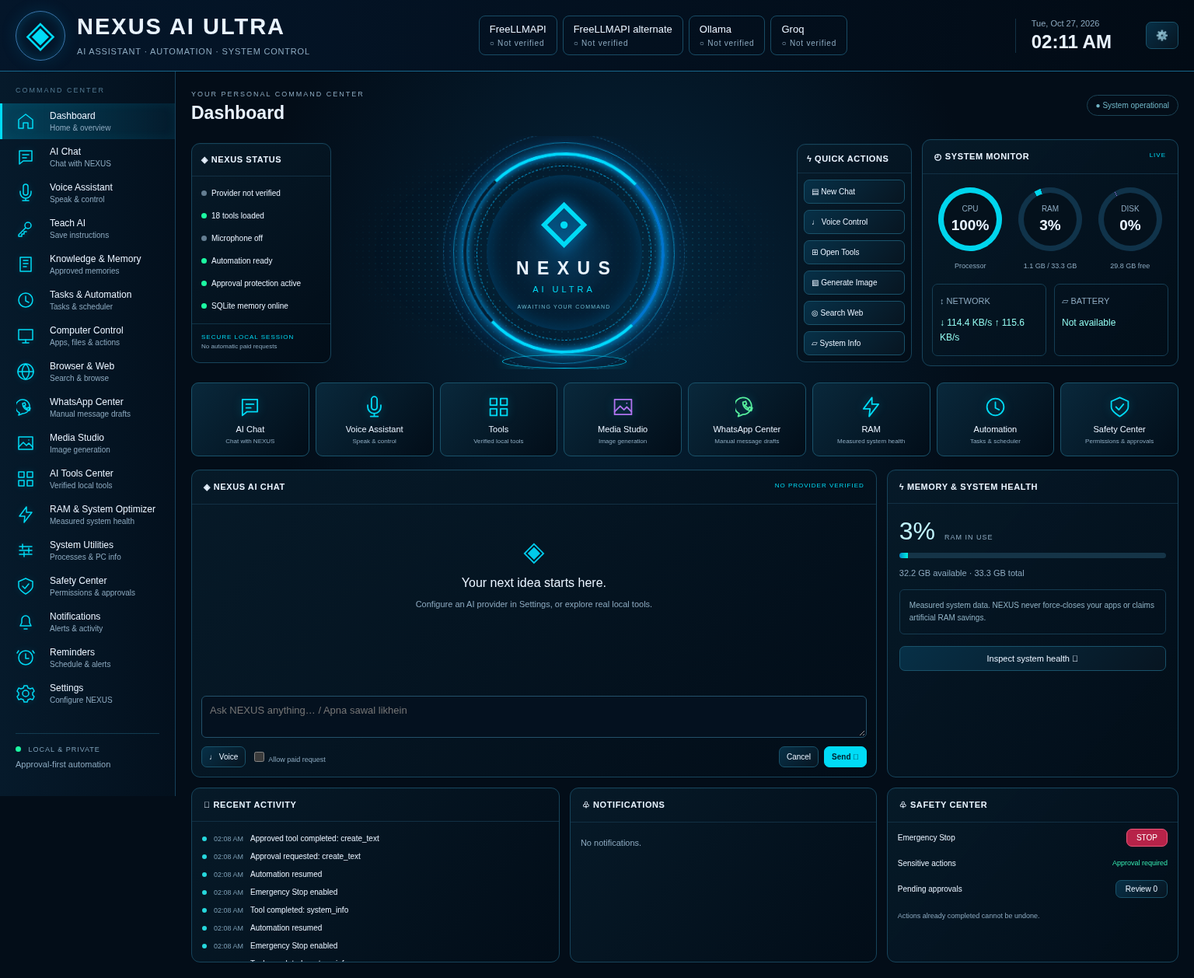
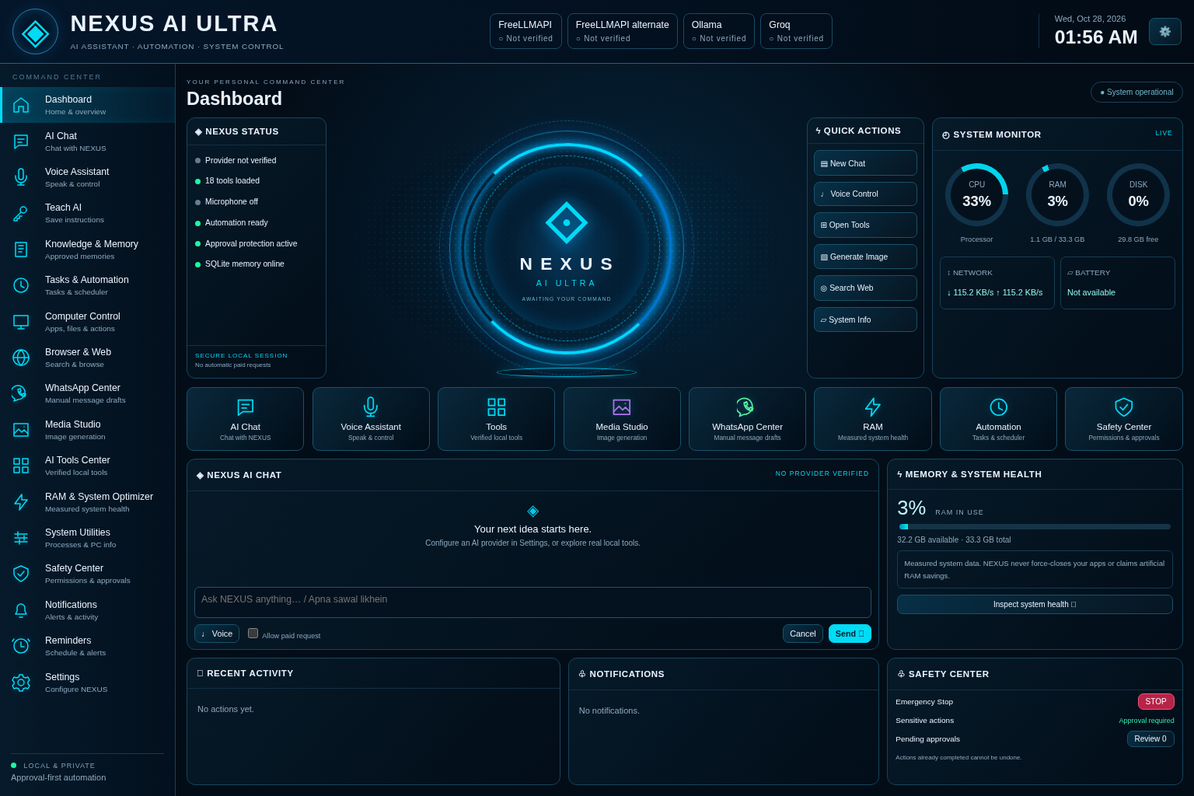
Auto-fit NEXUS dashboard to laptop viewports and keep Settings scrollable

diff --git a/NEXUS_AI_ULTRA/static/style.css b/NEXUS_AI_ULTRA/static/style.css
@@ -1,2 +1,51 @@
 :root{color-scheme:dark;--bg:#030d18;--panel:#061421;--border:#17445b;--cyan:#00dbf6;--text:#e9f3ff;--muted:#8ca9bf;--purple:#b073ef}*{box-sizing:border-box}body{margin:0;background:radial-gradient(ellipse at 52% 30%,#05243a 0,transparent 42%),var(--bg);font:13px Inter,Segoe UI,sans-serif;color:var(--text)}button,input,textarea,select{font:inherit}button{cursor:pointer;border:1px solid #19526a;background:linear-gradient(135deg,#073047,#071521);color:var(--text);border-radius:7px;padding:9px 12px;transition:border-color .2s,background .2s}button:hover{border-color:var(--cyan);background:#0a3548}button:disabled{opacity:.5;cursor:wait}button.primary{background:var(--cyan);color:#00202e;font-weight:700;border-color:var(--cyan)}button.danger{background:#b72349;border-color:#ef567a;color:white}input,textarea,select{background:#04111f;border:1px solid #23516a;border-radius:6px;padding:10px;color:var(--text);max-width:100%}input:focus,textarea:focus,select:focus{outline:1px solid var(--cyan)}input[type=checkbox]{accent-color:var(--cyan)}header{height:92px;border-bottom:1px solid #17658a;display:flex;align-items:center;gap:20px;padding:12px 20px;background:linear-gradient(100deg,#04162a,#020b15);position:relative;z-index:2}.brand{display:flex;align-items:center;gap:15px;min-width:380px}.brand-icon{font-size:48px;color:var(--cyan);border:1px solid #3a76ad;border-radius:50%;width:64px;height:64px;text-align:center;box-shadow:0 0 20px #007cb633,inset 0 0 15px #0097ce44}h1{font-size:29px;letter-spacing:2px;margin:0 0 7px;font-weight:800}h1 em{font-style:normal;color:var(--cyan)}small{color:var(--muted);font-size:11px}header small{letter-spacing:.8px}.provider-badges{display:flex;gap:7px;flex:1;justify-content:center}.provider-badge{border:1px solid #184b64;border-radius:8px;padding:9px 13px;min-width:90px}.provider-badge small{display:block;margin-top:5px;font-size:10px}.clock{min-width:148px;border-left:1px solid #123244;padding-left:20px}.clock span{display:block;color:var(--muted);font-size:11px}.clock strong{display:block;font-size:24px;margin-top:4px}aside{position:absolute;top:92px;left:0;width:226px;bottom:0;min-height:calc(100vh - 92px);background:linear-gradient(90deg,#061a2b,#03101d);border-right:1px solid #16405a;display:flex;flex-direction:column}.nav-caption{font-size:9px;letter-spacing:2px;color:#547b93;padding:19px 20px 12px}nav{flex:1}nav button{border:0;background:transparent;width:100%;border-radius:0;text-align:left;display:flex;gap:13px;padding:9px 18px;align-items:center;border-left:3px solid transparent}nav button.active{border-left-color:var(--cyan);background:linear-gradient(90deg,#007b9f66,#06456833);box-shadow:inset 0 0 14px #00d9ff16}nav button .nav-icon{color:var(--cyan);font-size:22px;width:30px;text-align:center}nav button span:last-child{font-size:12px;font-weight:500}nav button small{display:block;font-size:10px;font-weight:400;margin-top:3px}.sidebar-footer{margin:20px;padding:15px 0;border-top:1px solid #123b50;font-size:9px;letter-spacing:1px;color:#7ea0b8}.sidebar-footer small{display:block;margin-top:8px;letter-spacing:0}.dot{display:inline-block;width:7px;height:7px;border-radius:100%;background:#1cf9a2;margin-right:6px}.dot.offline{background:#647e92}main{margin-left:226px;padding:20px;max-width:2200px}.page-heading{display:flex;justify-content:space-between;align-items:center;margin-bottom:16px}.page-heading small{font-size:9px;letter-spacing:2px}.page-heading h2{font-size:23px;font-weight:600;margin:5px 0 0}.page-heading>span{font-size:10px;color:#71b6c7;border:1px solid #1b4355;border-radius:20px;padding:7px 11px}.panel{background:linear-gradient(130deg,#071c2bd9,#020d18f5);border:1px solid var(--border);border-radius:11px;overflow:hidden;box-shadow:inset 0 1px 0 #49d0f408}h3{font-size:11px;letter-spacing:.6px;margin:0;padding:15px;border-bottom:1px solid #123044;font-weight:600}.live{font-size:8px;color:var(--cyan);float:right;font-weight:500;letter-spacing:1px}.hero-grid{display:grid;grid-template-columns:180px minmax(230px,1fr) 148px 330px;gap:13px;min-height:300px}.status-panel{align-self:center}.status-panel h3{padding:14px 12px}.status-item{font-size:10px;margin:15px 12px;display:flex;align-items:center;line-height:1.4}.status-foot{padding:12px;font-size:8px;letter-spacing:1px;border-top:1px solid #103346;color:var(--cyan)}.status-foot small{font-size:8px;letter-spacing:0;line-height:2}.core-scene{min-height:300px;position:relative;display:grid;place-items:center;overflow:hidden}.map-grid{position:absolute;inset:0;background:radial-gradient(ellipse,#008cc41c,transparent 67%),radial-gradient(#0b7b9b88 1px,transparent 1px);background-size:auto,8px 8px;mask-image:radial-gradient(ellipse,black,transparent 72%)}.orbit{position:absolute;border-radius:50%;aspect-ratio:1;animation:rotate 40s linear infinite}.orbit-outer{width:285px;border:1px solid #087eaf;outline:1px dashed #115781;outline-offset:12px;box-shadow:0 0 25px #007fff33,inset 0 0 30px #007fff22}.orbit-mid{width:259px;border:4px solid #00d9ff;border-left-color:transparent;border-right-color:#0076cf;box-shadow:0 0 15px #00aaff,inset 0 0 12px #00aaff;animation-duration:25s}.orbit-inner{width:225px;border:1px dashed #03a4e0;animation-direction:reverse;animation-duration:35s}.ai-core{z-index:1;text-align:center;width:200px;height:200px;border-radius:50%;display:flex;flex-direction:column;justify-content:center;background:radial-gradient(circle,#06395c,#04111fd9 70%);box-shadow:inset 0 0 32px #004e7c}.core-symbol{font-size:78px;line-height:80px;color:var(--cyan);text-shadow:0 0 20px #00a8ff}.ai-core strong{font-size:23px;letter-spacing:2px}.ai-core small{color:var(--cyan);font-size:11px;letter-spacing:4px;margin:7px}.ai-core>span{font-size:7px;letter-spacing:1.2px;color:#6bb8cc;margin-top:6px}.core-scene.thinking .orbit-mid{animation-duration:3s}.core-scene.listening .ai-core{box-shadow:0 0 40px #00e5d577}.core-scene.speaking .core-symbol{animation:pulse 1s infinite}.core-base{position:absolute;width:160px;height:18px;border:1px solid #00b7dc;border-radius:50%;bottom:1px;box-shadow:0 0 15px #00b7dc55}.quick-panel{align-self:center}.quick-panel h3{padding:12px}.quick-panel button{display:block;width:calc(100% - 16px);margin:8px;font-size:10px;text-align:left;padding:9px}.monitor-panel{align-self:center}.gauges{display:flex;justify-content:space-around;text-align:center;padding:17px 10px}.gauges>div{width:31%}.gauge{--p:0%;--tone:#00d5ed;width:82px;height:82px;border-radius:50%;background:conic-gradient(var(--tone) var(--p),#10334a 0);padding:7px;margin:auto auto 10px;transform:rotate(-30deg)}.gauge span{height:100%;background:#04111c;border-radius:50%;display:flex;flex-direction:column;justify-content:center;transform:rotate(30deg);font-size:10px;color:var(--muted)}.gauge strong{font-size:19px;margin-top:5px;color:var(--text)}.gauge.purple{--tone:var(--purple)}.gauges small{font-size:9px}.monitor-bottom{display:grid;grid-template-columns:1fr 1fr;margin:0 12px 12px;gap:10px}.monitor-bottom>div{padding:13px 9px;border:1px solid #153e54;border-radius:7px}.monitor-bottom p{font-size:12px;color:#91f7ed;margin-bottom:0;line-height:1.6}.module-tiles{display:grid;grid-template-columns:repeat(8,1fr);gap:8px;margin:17px 0}.module-tiles button{padding:14px 4px;border-radius:9px;font-size:11px;background:linear-gradient(130deg,#09283b,#020d18)}.module-tiles b{display:block;color:var(--cyan);font-size:25px;margin-bottom:8px;font-weight:400}.module-tiles small{display:block;font-size:8px;margin-top:5px}.module-tiles button:nth-child(4) b{color:var(--purple)}.module-tiles button:nth-child(5) b{color:#57ef9d}.lower-grid{display:grid;grid-template-columns:1.2fr 1fr .95fr;gap:13px}.chat-panel{grid-column:span 2;grid-row:span 2;display:flex;flex-direction:column}.messages{height:246px;overflow:auto;padding:16px;scroll-behavior:smooth}.empty-chat{text-align:center;padding:24px 0;color:var(--muted)}.empty-chat>span{font-size:35px;color:#00cbec}.empty-chat h4{font-size:16px;color:var(--text);font-weight:500;margin:12px 0}.empty-chat p{font-size:11px}.message{padding:10px 12px;margin:0 0 12px;border:1px solid #18425a;background:#082439;border-radius:9px;max-width:93%;white-space:pre-wrap;line-height:1.6;font-size:12px;overflow-wrap:anywhere}.message.user{margin-left:auto;background:#0a3547;border-color:#1a6575}.message small{display:block;margin-bottom:5px;font-size:9px;color:var(--cyan)}#chat-form{padding:0 12px 12px}#chat-input{width:100%;resize:vertical;min-height:54px}.composer-actions{display:flex;gap:7px;margin-top:8px;align-items:center}.composer-actions label{font-size:9px;color:var(--muted);flex:1}.composer-actions button{font-size:10px;padding:7px 9px}.optimizer-panel{grid-column:3;grid-row:span 2;padding-bottom:14px}.memory-number{padding:17px 15px 9px;display:flex;align-items:baseline;gap:12px}.memory-number strong{font-size:32px;font-weight:500;color:#c2f6ff}.memory-number span{font-size:9px;color:var(--muted);letter-spacing:1px}.bar{height:7px;background:#153447;border-radius:10px;margin:0 15px;overflow:hidden}.bar>div{height:100%;background:linear-gradient(90deg,#008ac8,#00f2e0);width:0}.optimizer-panel p{margin:13px 15px;font-size:11px;color:var(--muted)}.notice{font-size:10px;color:#90b2c4;line-height:1.6;padding:12px;border:1px solid #153b50;border-radius:6px;margin:15px}.optimizer-panel>button{margin:0 15px;width:calc(100% - 30px);font-size:11px}.activity-panel,.notifications-panel{min-height:160px}.log-list{padding:7px 13px;max-height:180px;overflow:auto}.log-row{font-size:10px;line-height:1.6;margin:7px 0;display:flex;gap:9px;align-items:baseline}.log-row time{color:#7c9eb4;font-size:9px;white-space:nowrap}.log-row i{width:6px;height:6px;flex-shrink:0;background:#26d7dc;border-radius:50%}.safety-row{display:flex;justify-content:space-between;align-items:center;padding:8px 13px;font-size:10px}.safety-row button{padding:5px 12px;font-size:10px}.safety-row b{color:#36eab1;font-size:9px;font-weight:400}.muted{color:var(--muted);font-size:11px;line-height:1.6}.safety-panel .muted{margin:8px 13px;font-size:9px}.workspace{padding:22px;min-height:600px}.workspace h3{font-size:16px;padding:0 0 17px}.workspace h4{color:#c7edfa;font-size:13px;margin:24px 0 10px}.workspace p{line-height:1.7;color:var(--muted)}.field{display:flex;flex-direction:column;gap:8px;margin:15px 0;max-width:700px}.field label{font-size:11px;color:var(--muted)}.field textarea{min-height:80px}.workspace .row{display:flex;gap:10px;flex-wrap:wrap;align-items:center;margin:12px 0}.card{padding:16px;border:1px solid #1a4359;border-radius:8px;background:#071b2b;margin:12px 0}.card p{margin:7px 0}.card button{font-size:11px;margin:5px 5px 0 0}.tool-grid{display:grid;grid-template-columns:repeat(auto-fit,minmax(230px,1fr));gap:12px}.tool-grid .card{margin:0}.tag{font-size:9px;letter-spacing:1px;color:#00e3c8}.provider-form{display:grid;grid-template-columns:repeat(2,minmax(0,1fr));gap:10px}.provider-form label{font-size:10px;color:var(--muted);display:flex;flex-direction:column;gap:5px}.provider-form input{width:100%}.provider-form .checks{flex-direction:row;align-items:center}.provider-form input[type=checkbox]{width:auto}.provider-test{font-size:10px;color:#90bace;white-space:pre-wrap;overflow-wrap:anywhere}pre{font:12px Consolas,monospace;white-space:pre-wrap;overflow-wrap:anywhere;line-height:1.7;color:#b5d6e7}dialog{background:#061a2b;color:var(--text);border:1px solid #1680a5;border-radius:12px;width:min(800px,90vw);max-height:85vh;padding:20px}dialog::backdrop{background:#000a}.dialog-head{display:flex;justify-content:space-between;align-items:center}.dialog-head h3{border:0;padding:0}#toast{position:fixed;bottom:24px;right:24px;max-width:500px;padding:16px;background:#092e43;border:1px solid #00aec7;border-radius:8px;z-index:10;box-shadow:0 10px 40px #0008;line-height:1.6}a{color:var(--cyan)}[hidden]{display:none!important}@keyframes rotate{to{transform:rotate(360deg)}}@keyframes pulse{50%{opacity:.5}}@media(min-width:1800px){.hero-grid{grid-template-columns:210px minmax(300px,1fr) 170px 400px;min-height:365px}.core-scene{min-height:365px}.orbit-outer{width:330px}.orbit-mid{width:300px}.orbit-inner{width:265px}.ai-core{width:240px;height:240px}.gauge{width:100px;height:100px}.messages{height:330px}nav button{padding:12px 18px}}@media(max-width:1400px){header{gap:12px}.brand{min-width:325px}h1{font-size:24px}.brand small{font-size:9px}.provider-badge{min-width:75px;padding:8px}.provider-badges .provider-badge:nth-child(n+4){display:none}aside{width:200px}main{margin-left:200px;padding:15px}.hero-grid{grid-template-columns:155px minmax(200px,1fr) 130px 280px;gap:9px}.gauge{width:70px;height:70px}.gauge strong{font-size:17px}.orbit-outer{width:230px}.orbit-mid{width:210px}.orbit-inner{width:185px}.ai-core{width:174px;height:174px}.core-symbol{font-size:60px;line-height:65px}.ai-core strong{font-size:19px}.core-scene{min-height:275px}.quick-panel button{font-size:9px;padding:9px 6px}nav button{padding:8px 12px}.module-tiles small{font-size:7px}.lower-grid{grid-template-columns:1fr 1fr 1fr}.messages{height:225px}}@media(max-width:1100px){.provider-badges{display:none}.brand{flex:1}.hero-grid{grid-template-columns:160px 1fr 150px}.monitor-panel{grid-column:1/-1}.gauges{max-width:450px;float:left;width:55%}.monitor-bottom{padding-top:20px}.module-tiles{grid-template-columns:repeat(4,1fr)}.lower-grid{grid-template-columns:1fr 1fr}.optimizer-panel{grid-column:auto;grid-row:auto}.chat-panel{grid-column:span 2}.safety-panel{grid-column:span 2}}@media(max-width:700px){header{height:80px;padding:10px}.brand{min-width:0;gap:8px}.brand-icon{width:44px;height:44px;font-size:34px}h1{font-size:17px}.brand small{font-size:6px}.clock{min-width:92px;padding-left:8px}.clock strong{font-size:17px}.clock span{font-size:8px}aside{position:relative;top:0;width:100%;min-height:0;border-bottom:1px solid #17445b}.nav-caption,.sidebar-footer{display:none}nav{display:flex;overflow:auto}nav button{width:auto;min-width:100px;padding:10px;justify-content:center}nav button .nav-icon{display:none}nav button small{display:none}nav button span:last-child{font-size:10px}main{margin-left:0;padding:12px}.hero-grid{grid-template-columns:1fr 1fr}.core-scene{grid-column:1/-1;grid-row:1}.status-panel,.quick-panel{align-self:stretch}.monitor-panel{grid-column:1/-1}.monitor-bottom{padding-top:10px}.gauge{width:65px;height:65px}.lower-grid{grid-template-columns:1fr}.chat-panel,.safety-panel{grid-column:auto}.module-tiles{gap:5px}.module-tiles button{font-size:9px}.module-tiles small{font-size:7px}.workspace{padding:14px}.provider-form{grid-template-columns:1fr}.page-heading>span{display:none}}@media(prefers-reduced-motion:reduce){*{animation:none!important;scroll-behavior:auto!important}}
 .nav-icon svg{width:24px;height:24px;display:block;filter:drop-shadow(0 0 4px #00d7ff33)}.module-tiles b svg{width:29px;height:29px;vertical-align:middle;filter:drop-shadow(0 0 6px #00d7ff44)}
+
+/* Viewport-aware desktop shell. Keep the existing palette, borders and artwork. */
+:root{--header-height:clamp(64px,8vh,88px);--sidebar-width:clamp(190px,14.7vw,226px);--fit-gap:clamp(8px,1vh,13px)}
+@media(min-width:1101px){
+ html,body{height:100%;height:100dvh;overflow:hidden}
+ body{display:grid;grid-template-columns:var(--sidebar-width) minmax(0,1fr);grid-template-rows:var(--header-height) minmax(0,1fr)}
+ header{grid-column:1/-1;height:auto;min-width:0;padding:8px 16px;gap:12px}
+ .brand{min-width:0;flex-shrink:1}.brand>div{min-width:0}.brand-icon{flex-shrink:0;width:clamp(44px,5.8vh,64px);height:clamp(44px,5.8vh,64px);font-size:clamp(34px,4.6vh,48px)}
+ h1{font-size:clamp(20px,1.9vw,29px);overflow-wrap:anywhere;margin-bottom:4px}.brand small{font-size:clamp(8px,.65vw,11px)}
+ .provider-badges{min-width:0}.provider-badge{min-width:0;padding:7px 10px;font-size:clamp(10px,.8vw,13px)}.clock{min-width:130px}.clock strong{font-size:clamp(20px,1.6vw,26px)}
+ aside{position:static;min-height:0;width:auto;overflow:hidden;grid-column:1;grid-row:2}
+ .nav-caption{padding:12px 16px 8px;flex-shrink:0}nav{min-height:0;overflow-y:auto;overflow-x:hidden;overscroll-behavior:contain;scrollbar-width:thin}
+ nav button{padding:clamp(6px,.9vh,11px) 12px;min-height:40px;flex-shrink:0}nav button span:last-child{min-width:0;font-size:clamp(11px,.8vw,13px);overflow-wrap:anywhere}nav button small{font-size:clamp(9px,.65vw,11px)}
+ .sidebar-footer{flex-shrink:0;margin:8px 14px;padding:10px 0}.sidebar-footer small{margin-top:4px}
+ main{grid-column:2;grid-row:2;min-width:0;min-height:0;margin:0;max-width:none;padding:clamp(10px,1.4vh,18px);display:flex;flex-direction:column;overflow:hidden}
+ .page-heading{flex-shrink:0;margin-bottom:var(--fit-gap);min-width:0}.page-heading h2{font-size:clamp(18px,2.3vh,25px);margin-top:3px}.page-heading small{font-size:8px}
+ #dashboard{flex:1;min-height:0;display:grid;grid-template-rows:minmax(210px,.8fr) clamp(64px,8vh,96px) minmax(280px,1fr);gap:var(--fit-gap);overflow-y:auto;scrollbar-width:thin}
+ .hero-grid{min-height:0;grid-template-columns:clamp(145px,11.7vw,210px) minmax(160px,1fr) clamp(126px,9.8vw,170px) clamp(268px,21vw,400px);gap:var(--fit-gap)}
+ .hero-grid>.panel{min-width:0;min-height:0;align-self:stretch;overflow-y:auto;scrollbar-width:thin}
+ h3{padding:clamp(9px,1.3vh,15px) 12px;font-size:clamp(10px,.75vw,12px);overflow-wrap:anywhere}.live{font-size:clamp(7px,.55vw,9px)}
+ .status-panel{display:flex;flex-direction:column}.status-panel h3{padding:10px}.status-item{font-size:clamp(9px,.67vw,12px);margin:clamp(8px,1.2vh,14px) 10px}.status-foot{margin-top:auto;padding:8px 10px}
+ .quick-panel h3{padding:10px}.quick-panel button{margin:clamp(5px,.8vh,8px) 8px;font-size:clamp(9px,.67vw,12px);padding:clamp(6px,.9vh,10px) 7px;min-height:27px;white-space:normal}
+ .core-scene{container-type:size;min-width:0;min-height:0;--core-diameter:min(calc(100cqw - 34px),calc(100cqh - 34px),330px)}
+ .orbit-outer{width:var(--core-diameter)}.orbit-mid{width:calc(var(--core-diameter)*.9)}.orbit-inner{width:calc(var(--core-diameter)*.79)}
+ .ai-core{width:calc(var(--core-diameter)*.7);height:calc(var(--core-diameter)*.7)}.core-symbol{font-size:clamp(38px,calc(var(--core-diameter)*.24),78px);line-height:1.05}.ai-core strong{font-size:clamp(15px,calc(var(--core-diameter)*.075),25px)}.ai-core small{font-size:clamp(8px,calc(var(--core-diameter)*.035),12px);margin:5px}.ai-core>span{font-size:clamp(6px,calc(var(--core-diameter)*.022),8px)}.core-base{width:45%;max-width:180px;height:12px;bottom:2px}
+ .gauges{padding:clamp(10px,1.6vh,20px) 6px;gap:3px}.gauge{width:clamp(64px,5.3vw,100px);height:clamp(64px,5.3vw,100px);margin-bottom:7px}.gauge strong{font-size:clamp(16px,1.2vw,23px)}.gauges small{font-size:clamp(8px,.6vw,11px)}
+ .monitor-bottom{margin:0 9px 9px;gap:7px}.monitor-bottom>div{padding:clamp(8px,1.1vh,14px) 8px;min-width:0}.monitor-bottom p{font-size:clamp(10px,.7vw,13px);overflow-wrap:anywhere}.monitor-bottom small{font-size:clamp(9px,.65vw,12px)}
+ .module-tiles{margin:0;gap:var(--fit-gap);min-height:0;grid-template-columns:repeat(8,minmax(0,1fr))}.module-tiles button{min-width:0;padding:clamp(6px,1vh,12px) 3px;font-size:clamp(10px,.75vw,13px);overflow-wrap:anywhere}.module-tiles b{margin-bottom:5px;line-height:1}.module-tiles b svg{width:clamp(21px,2.7vh,30px);height:clamp(21px,2.7vh,30px)}.module-tiles small{font-size:clamp(7px,.54vw,10px);margin-top:3px}
+ .lower-grid{min-height:0;grid-template-columns:1.2fr 1fr .95fr;grid-template-rows:minmax(160px,1.5fr) minmax(110px,1fr);gap:var(--fit-gap)}
+ .lower-grid>.panel{min-width:0;min-height:0}.chat-panel{grid-column:1/3;grid-row:1}.optimizer-panel{grid-column:3;grid-row:1;overflow-y:auto;scrollbar-width:thin;padding-bottom:9px}
+ .activity-panel{grid-column:1;grid-row:2}.notifications-panel{grid-column:2;grid-row:2}.safety-panel{grid-column:3;grid-row:2;overflow-y:auto;scrollbar-width:thin}
+ .activity-panel,.notifications-panel{display:flex;flex-direction:column}.log-list{min-height:0;max-height:none;flex:1;overflow-y:auto}.log-row{font-size:clamp(9px,.65vw,12px);margin:5px 0}
+ .chat-panel h3{flex-shrink:0}.messages{height:auto;min-height:35px;flex:1;padding:8px 12px}.empty-chat{padding:4px 0}.empty-chat>span{font-size:20px}.empty-chat h4{font-size:13px;margin:5px 0}.empty-chat p{margin:4px 0;font-size:10px}
+ #chat-form{flex-shrink:0;padding:0 9px 8px}#chat-input{height:40px;min-height:40px;max-height:80px;padding:8px;resize:none;font-size:clamp(11px,.8vw,14px)}.composer-actions{margin-top:5px;flex-wrap:wrap}.composer-actions button{padding:5px 8px;font-size:clamp(10px,.7vw,12px)}.composer-actions label{font-size:clamp(9px,.6vw,11px)}
+ .memory-number{padding:9px 12px 6px}.memory-number strong{font-size:clamp(22px,2.5vh,32px)}.optimizer-panel p{margin:8px 12px;font-size:10px}.notice{padding:8px;margin:8px 12px;font-size:clamp(9px,.62vw,11px)}.optimizer-panel>button{margin:0 12px;width:calc(100% - 24px);padding:6px 8px;font-size:10px}
+ .safety-row{padding:4px 10px;font-size:clamp(9px,.65vw,12px)}.safety-row button{padding:4px 9px}.safety-panel .muted{margin:4px 10px;font-size:8px}
+ .workspace{flex:1;min-height:0;overflow-y:auto;overflow-x:hidden;overscroll-behavior:contain;scrollbar-gutter:stable;padding:clamp(14px,1.4vw,24px)}
+ .workspace>*{max-width:100%}.provider-form{min-width:0}.provider-form label,.field{min-width:0}.workspace input,.workspace textarea,.workspace select{min-width:0}.workspace .card{overflow-wrap:anywhere}
+}
+@media(min-width:1101px) and (max-height:800px){.sidebar-footer{display:none}.nav-caption{padding-top:9px}nav button{min-height:36px;padding-top:5px;padding-bottom:5px}.status-foot small{line-height:1.5}}
+/* On smaller/resized windows, retain readable controls and normal vertical flow. */
+@media(max-width:1100px){.workspace{overflow:visible;min-height:0}.panel{overflow-wrap:anywhere}main{min-width:0}.provider-form label,.field{min-width:0}aside{bottom:auto}#app-name{overflow-wrap:anywhere}}
+@media(min-width:1101px) and (max-height:800px){
+ #dashboard{grid-template-rows:minmax(210px,calc(100% - 418px)) 72px 330px}
+ .quick-panel button{margin:5px 8px;padding:5px 7px;min-height:24px}
+ .gauges{padding:9px 6px}.monitor-bottom p{margin-top:8px}
+ .empty-chat{padding:0;display:flex;flex-wrap:wrap;align-items:center;justify-content:center;gap:4px}
+ .empty-chat>span{font-size:17px;line-height:20px}.empty-chat h4{font-size:12px;margin:0}.empty-chat p{flex-basis:100%;font-size:9px;margin:0;line-height:1.3}
+}

diff --git a/NEXUS_AI_ULTRA/tests/test_desktop.py b/NEXUS_AI_ULTRA/tests/test_desktop.py
@@ -110,10 +110,10 @@ def test_main_desktop_default_and_headless_alias(tmp_path,monkeypatch):
     assert run.main(['--no-browser'])==0
 
 
-def test_gui_files_match_original_uploaded_design():
+def test_gui_markup_and_actions_preserve_existing_design():
     import hashlib
     root=Path(__file__).resolve().parent.parent
[2 lines of base64/hex data omitted]
     for name, digest in original_hashes.items():
         assert hashlib.sha256((root/'static'/name).read_bytes()).hexdigest()==digest
 

diff --git a/NEXUS_AI_ULTRA/docs/AUTOFIT_TEST_REPORT.md b/NEXUS_AI_ULTRA/docs/AUTOFIT_TEST_REPORT.md
@@ -1,0 +1,43 @@
+# Dashboard auto-fit — 28 October 2026
+
+The existing navy/cyan dashboard now sizes itself from the **usable window viewport**, including changes caused by window resizing, title/taskbar space or Windows display scaling. Physical screen resolution is not used as a fixed canvas. No rebuild, new frontend, JavaScript resize polling, transform/zoom scaling or backend changes were introduced.
+
+## Changes
+
+- Desktop shell fills the viewport with a bounded header, sidebar and main content area. Sidebar navigation scrolls independently when necessary.
+- Width- and height-aware CSS grid tracks, clamped typography, buttons and spacing keep the full dashboard visible at the requested desktop viewport sizes.
+- AI rings and core use their actual panel's container dimensions, with space reserved for outlines/glow. They shrink or grow when the window changes size.
+- Chat history and activity lists retain their own scrolling. All dashboard action buttons remain inside their panels at both target sizes.
+- Settings and other module pages have an independent vertical scroll area on desktop. Their bottom save buttons remain reachable. Smaller windows use normal vertical document flow rather than clipping or shrinking controls indefinitely.
+- Existing colors, gradients, borders, icons, animations, HTML markup, JavaScript actions, providers, APIs and native pywebview host are preserved. Only responsive CSS and its tests/documentation changed.
+
+## Executed checks
+
+Headless system Chromium with Playwright against the actual running FastAPI app:
+
+| Usable viewport | Result |
+| --- | --- |
+| 1366 × 768 | Full dashboard fits; no horizontal overflow; dashboard action buttons inside panels; AI ring diameter 183.5 CSS px |
+| 1920 × 1080 | Full dashboard fits; no horizontal overflow; dashboard action buttons inside panels; AI ring diameter about 321 CSS px |
+| 1366 × 650 | Reduced laptop client-height fallback; vertical dashboard scroll available |
+| 1093 × 614 | Scaled/smaller client-area layout; normal vertical flow, no horizontal overflow |
+| 800 × 600 | Native minimum-window fallback; normal vertical flow, no horizontal overflow |
+| 390 × 844 | Existing mobile layout retained without horizontal overflow |
+
+At every size: opened Settings, scrolled to the bottom Save all providers button, verified it was within the viewport, resized the same page and confirmed unsaved input remained intact. Desktop Settings uses overflow-y:auto. The navy #030d18 and cyan #00dbf6 palette tokens were asserted. No JavaScript page errors occurred.
+
+`tests/autofit.cjs` contains these assertions. `docs/autofit-results.json` records outcomes. `autofit-*.png` and `autofit-settings-*.png` are real screenshots, visually inspected at the two requested resolutions.
+
+Also passed: **33 Python tests**, including all existing API and desktop-host integration tests. The frontend preservation test now checks unchanged HTML and action JavaScript; stylesheet changes are intentional and covered by the new layout/appearance checks. The existing `tests/browser.cjs` suite passed all 17 navigation sections, persisted memory, real system-tool results, Stop/Resume and approval-gated file creation.
+
+Reproduction, with the app running in explicit headless mode:
+
+```
+NODE_PATH=/tmp/nexus-browser/node_modules node tests/autofit.cjs
+NODE_PATH=/tmp/nexus-browser/node_modules node tests/browser.cjs
+.venv/bin/python -m pytest -q
+```
+
+Install Playwright into that disposable tooling directory as described in TEST_REPORT.md; use CHROMIUM_PATH for a different installed Chromium executable. No browser or screenshot dependency was added to the application.
+
+These are actual Chromium viewport tests, not a claim that a physical Windows laptop or native WebView2 window was tested in this Linux cloud. On Windows, close/reopen the updated app; rebuild an existing portable EXE with BUILD_WINDOWS.bat to include the updated stylesheet. No manual screen-size configuration is needed.

diff --git a/NEXUS_AI_ULTRA/PROGRESS.md b/NEXUS_AI_ULTRA/PROGRESS.md
@@ -44,3 +44,15 @@ Resume: use this project folder, read docs/TEST_REPORT.md, configure one real pr
 - [ ] Build and verify the portable executable on Windows x64
 
 Read docs/DESKTOP_TEST_REPORT.md for evidence and Windows acceptance steps. The previous original browser implementation report is historical; startup now uses the native desktop host. Do not confuse mocked native-host tests with a real Windows window test.
+
+## Laptop auto-fit correction — 28 October 2026
+
+- [x] Existing dashboard adapts to usable window width and height
+- [x] AI core/rings scale to their own container without cropping
+- [x] Sidebar and Settings remain vertically accessible
+- [x] All dashboard action buttons fit at 1366×768 and 1920×1080
+- [x] Resize preserves unsaved Settings input; smaller/scaled-window fallbacks tested
+- [x] Navy/cyan palette, HTML, action JavaScript and all backend/native-host functionality preserved
+- [x] 33 Python tests and both browser suites passed
+
+The stylesheet intentionally supersedes the earlier desktop-conversion CSS hash baseline. Read docs/AUTOFIT_TEST_REPORT.md for current layout evidence.

diff --git a/NEXUS_AI_ULTRA/README.md b/NEXUS_AI_ULTRA/README.md
@@ -96,3 +96,7 @@ Performance targets on the baseline i3 / 4 GB Windows 11 machine: backend startu
 See `docs/USER_GUIDE_ROMAN_URDU.md`, `docs/TROUBLESHOOTING.md`, and `PROGRESS.md`.
 
 Desktop conversion details and validation: `docs/DESKTOP_TEST_REPORT.md`.
+
+## Automatic laptop/window fitting
+
+The existing JARVIS navy/cyan dashboard automatically responds to usable window width **and height**. The AI core scales inside its panel; dashboard controls fit at 1366×768 and 1920×1080. Settings has a vertical scrollbar, with its bottom save controls reachable. On smaller windows or scaled displays, vertical scrolling preserves readable controls. Resizing does not reload the page or discard unsaved settings. No manual resolution setting is required. See `docs/AUTOFIT_TEST_REPORT.md` for screenshots, checks and Windows verification limits. If using an already-built portable executable, run BUILD_WINDOWS.bat again to package the updated CSS.

diff --git a/NEXUS_AI_ULTRA/docs/DESKTOP_TEST_REPORT.md b/NEXUS_AI_ULTRA/docs/DESKTOP_TEST_REPORT.md
@@ -1,5 +1,7 @@
 # pywebview desktop conversion — 27 October 2026
 
+Historical conversion report. The later 28 October viewport-fit correction intentionally updates responsive CSS; HTML/actions and the native host remain unchanged. See AUTOFIT_TEST_REPORT.md for current layout evidence.
+
 ## Change and preservation
 
 The existing application is hosted by pywebview 6.2.1 with the Windows Edge WebView2 renderer. The native entry point starts one owned Uvicorn backend in a thread, waits for a successful `/api/state` response containing the expected PID and 18 tools, then creates the native window. Closing the window shuts down that backend, cancels outstanding requests through Uvicorn's bounded shutdown and removes its PID file. The default browser is never called by the app launcher. `--headless` is an explicit API-only development mode; `--no-browser` remains an alias.
